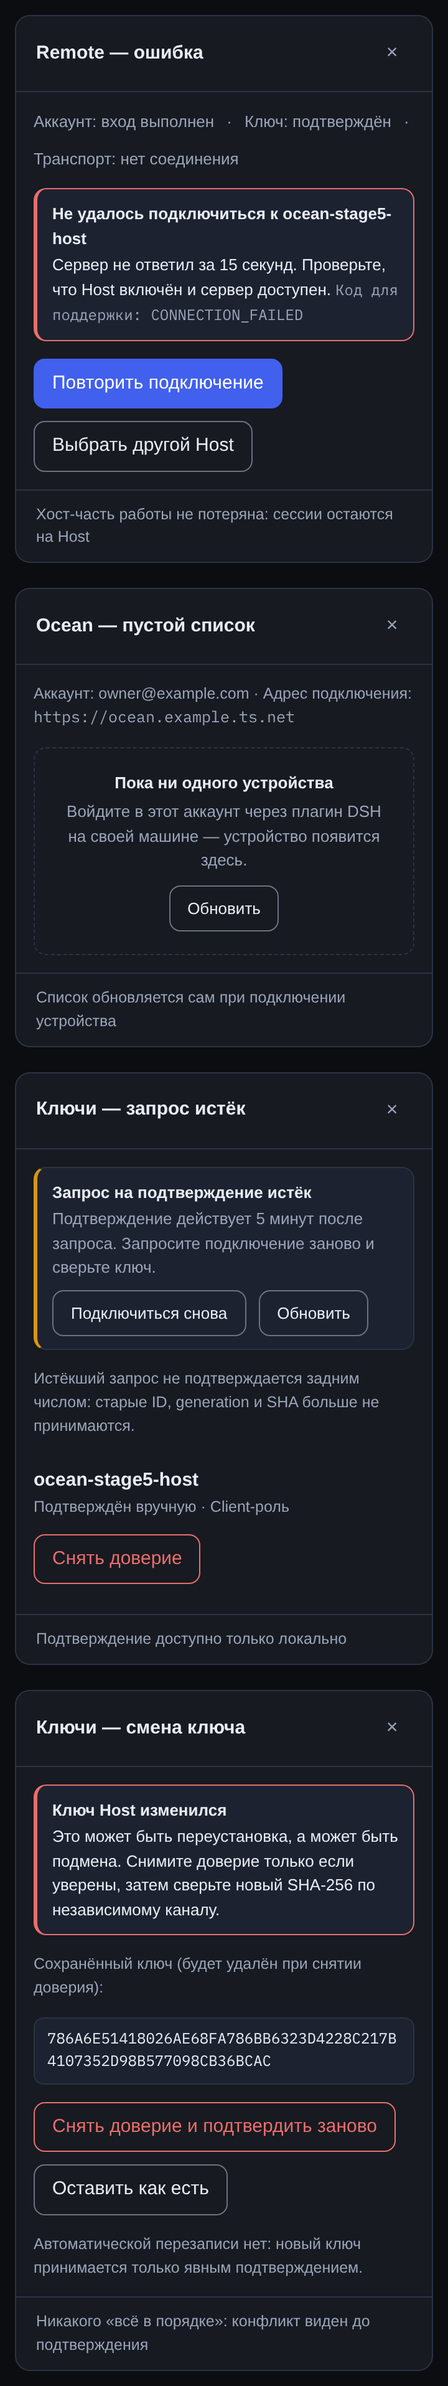
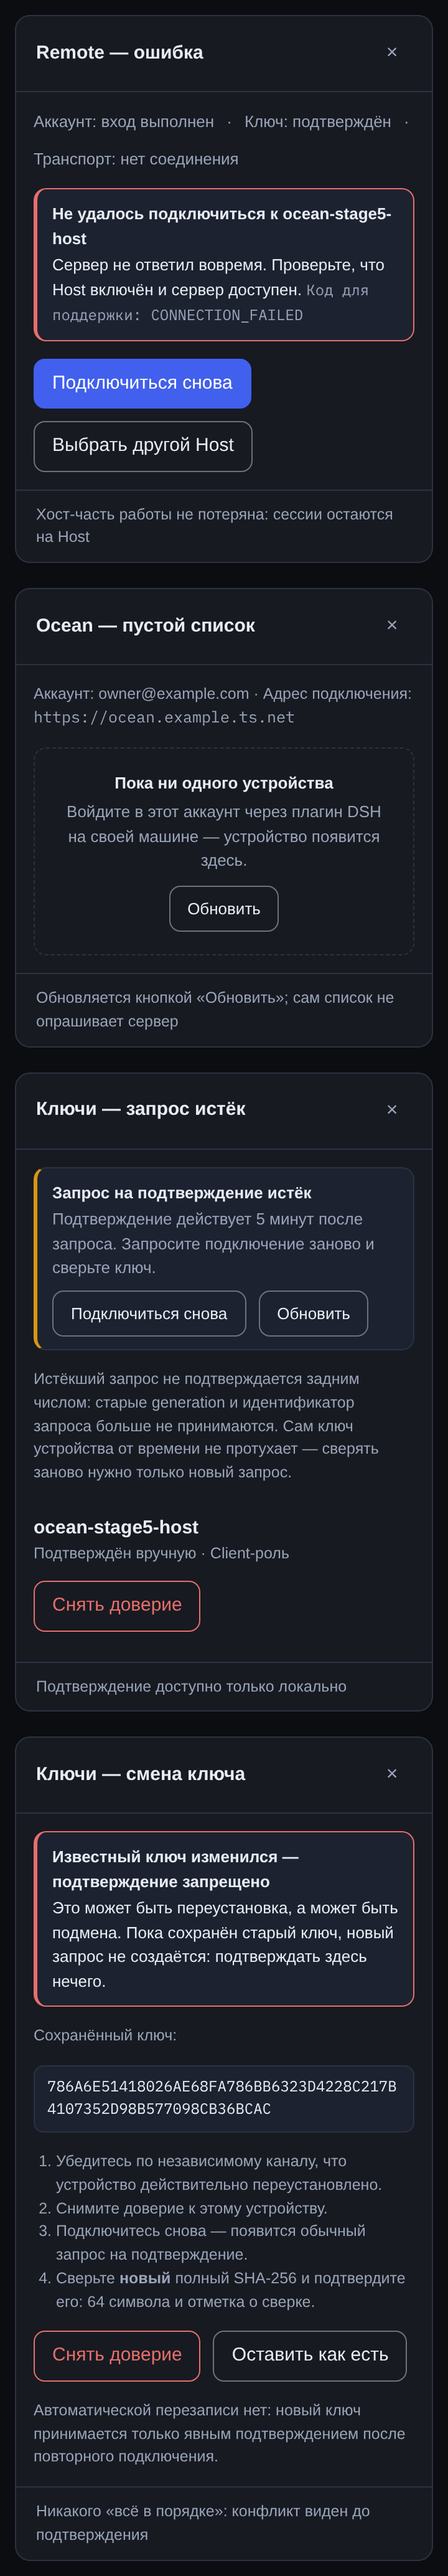
fix: make the state mockups match the product behaviour

diff --git a/docs/design/fork/mockups/states.html b/docs/design/fork/mockups/states.html
@@ -56,11 +56,11 @@
       </p>
       <div class="alert" role="alert">
         <strong>Не удалось подключиться к ocean-stage5-host</strong>
-        Сервер не ответил за 15 секунд. Проверьте, что Host включён и сервер доступен.
+        Сервер не ответил вовремя. Проверьте, что Host включён и сервер доступен.
         <span class="code">Код для поддержки: CONNECTION_FAILED</span>
       </div>
       <div class="row">
-        <button class="btn btn--primary">Повторить подключение</button>
+        <button class="btn btn--primary">Подключиться снова</button>
         <button class="btn">Выбрать другой Host</button>
       </div>
     </div>
@@ -80,7 +80,7 @@
         <span class="row" style="justify-content:center;margin-top:10px"><button class="btn">Обновить</button></span>
       </div>
     </div>
-    <footer class="footer">Список обновляется сам при подключении устройства</footer>
+    <footer class="footer">Обновляется кнопкой «Обновить»; сам список не опрашивает сервер</footer>
   </section>
 
   <section class="card" aria-labelledby="expired-title">
@@ -89,12 +89,12 @@
       <button class="card__close" aria-label="Закрыть панель доверия">×</button>
     </header>
     <div class="card__body">
-      <div class="notice">
+      <div class="notice" role="status">
         <strong>Запрос на подтверждение истёк</strong>
         Подтверждение действует 5 минут после запроса. Запросите подключение заново и сверьте ключ.
         <span class="row" style="margin-top:8px"><button class="btn">Подключиться снова</button><button class="btn">Обновить</button></span>
       </div>
-      <p class="hint">Истёкший запрос не подтверждается задним числом: старые ID, generation и SHA больше не принимаются.</p>
+      <p class="hint">Истёкший запрос не подтверждается задним числом: старые generation и идентификатор запроса больше не принимаются. Сам ключ устройства от времени не протухает — сверять заново нужно только новый запрос.</p>
       <div class="pin">
         <div>
           <div class="name">ocean-stage5-host</div>
@@ -113,17 +113,23 @@
     </header>
     <div class="card__body">
       <div class="alert" role="alert">
-        <strong>Ключ Host изменился</strong>
-        Это может быть переустановка, а может быть подмена. Снимите доверие только если уверены,
-        затем сверьте новый SHA-256 по независимому каналу.
+        <strong>Известный ключ изменился — подтверждение запрещено</strong>
+        Это может быть переустановка, а может быть подмена. Пока сохранён старый ключ, новый запрос
+        не создаётся: подтверждать здесь нечего.
       </div>
-      <p class="hint">Сохранённый ключ (будет удалён при снятии доверия):</p>
+      <p class="hint">Сохранённый ключ:</p>
       <p class="sha">786A6E51418026AE68FA786BB6323D4228C217B4107352D98B577098CB36BCAC</p>
+      <ol class="hint" style="margin:0;padding-left:18px">
+        <li>Убедитесь по независимому каналу, что устройство действительно переустановлено.</li>
+        <li>Снимите доверие к этому устройству.</li>
+        <li>Подключитесь снова — появится обычный запрос на подтверждение.</li>
+        <li>Сверьте <b>новый</b> полный SHA-256 и подтвердите его: 64 символа и отметка о сверке.</li>
+      </ol>
       <div class="row">
-        <button class="btn btn--danger">Снять доверие и подтвердить заново</button>
+        <button class="btn btn--danger">Снять доверие</button>
         <button class="btn">Оставить как есть</button>
       </div>
-      <p class="hint">Автоматической перезаписи нет: новый ключ принимается только явным подтверждением.</p>
+      <p class="hint">Автоматической перезаписи нет: новый ключ принимается только явным подтверждением после повторного подключения.</p>
     </div>
     <footer class="footer">Никакого «всё в порядке»: конфликт виден до подтверждения</footer>
   </section>

diff --git a/docs/design/fork/05-acceptance-checklist.ru.md b/docs/design/fork/05-acceptance-checklist.ru.md
@@ -5,7 +5,7 @@
 | Пункт | Что требуется | Как проверяется | Статус |
 | --- | --- | --- | --- |
 | UX-AC1 | Пользовательский путь 02–05 остаётся рабочим, security-тесты проходят на тех же контрактах | `pnpm -r test` из чистой копии репозитория ([проверка релиза](../../release-check.ru.md)): 834 теста, типы и контраст; чек-листы [установки](../../install-acceptance.ru.md) и [сессии](../../session-acceptance.ru.md) | Частично: полный набор зелёный в чистом клоне; живые двухмашинные прогоны ждут доступа к bigpc |
-| UX-AC2 | Все состояния отображены и проверены: неверный пароль, истечение запроса, смена ключа, частичный отзыв, потеря сети | [макеты состояний](mockups/README.ru.md) для ошибки, пустого списка, истёкшего запроса и смены ключа; матрица [01-screen-map](01-screen-map.ru.md); живые прогоны | Частично: четыре состояния нарисованы и проходят автоматическую проверку; неверный пароль — только в wireframes; частичный отзыв и истечение pending в реальном UI не прогонялись |
+| UX-AC2 | Все состояния отображены и проверены: неверный пароль, истечение запроса, смена ключа, частичный отзыв, потеря сети | [макеты состояний](mockups/README.ru.md) для ошибки, пустого списка, истёкшего запроса и смены ключа; матрица [01-screen-map](01-screen-map.ru.md); живые прогоны | Частично: четыре состояния нарисованы и проходят автоматическую проверку; смена ключа проверена только кодом и тестами, живьём не прогонялась; неверный пароль — только в wireframes; частичный отзыв не прогонялся, а отдельного UI «запрос истёк» в продукте нет — истечение видно как исчезнувший запрос |
 | UX-AC3 | Клавиатура и скринридер, нет фокуса за модалью и потери фокуса после закрытия | `pnpm check:mockups` (видимый фокус у всех контролов), ручной проход по диалогам | Частично: макеты проверены, живой интерфейс — нет |
 | UX-AC4 | Визуальная проверка на согласованных viewport/темах/zoom; нет обрезанного SHA и скрытых последствий | `pnpm check:mockups` (360/768/1440 и 720/705 ≈ 200% зума по ширине, SHA 64 символа), `pnpm check:contrast` | Частично: макеты проверены; светлая тема и живой интерфейс — нет |
 | UX-AC5 | Макеты и фактический UI показаны пользователю, ассеты/лицензии задокументированы | [макеты](mockups/README.ru.md), [UI kit](03-ui-kit.ru.md) | Ожидает показа: макеты готовы, визуальное направление не согласовано; лицензия base64-иконок вендоров остаётся открытым вопросом |

diff --git a/docs/design/fork/mockups/README.ru.md b/docs/design/fork/mockups/README.ru.md
@@ -16,7 +16,7 @@
 | Состояния, desktop 1440 | Ошибка подключения с кодом, пустой список устройств, истёкший запрос подтверждения, смена ключа | `states-desktop.png` |
 | Состояния, планшет/узкий | Те же четыре карточки столбцом | `states-tablet.png`, `states-narrow.png` |
 
-Исходники разметки: `remote-card.html` и `settings-and-ocean.html` — самодостаточные, без внешних ассетов, шрифтов и сетевых ссылок.
+Исходники разметки: `remote-card.html`, `settings-and-ocean.html` и [`states.html`](states.html) — самодостаточные, без внешних ассетов, шрифтов и сетевых ссылок.
 
 ## Осознанные отличия от текущего кода (целевое, не «как сейчас»)
 
@@ -24,6 +24,8 @@
 - Клиентский собственный SHA показан отдельной строкой; в текущей панели его подпись сливается с ожидающим запросом.
 - У кнопки «Подтвердить ключ» показано disabled-состояние, у уведомления об обрыве — номер попытки из бюджета 6.
 - Подтверждение снятия доверия нарисовано отдельной строкой; в продукте сейчас `window.confirm`.
+- Код поддержки в сообщении об ошибке (`CONNECTION_FAILED`) — целевое состояние из [§7 wireframes](../02-wireframes.ru.md): сейчас интерфейс показывает только локализованный текст.
+- Пустое состояние списка устройств в консоли не опрашивает сервер: обновление только по кнопке.
 
 ## Как проверяется
 
@@ -51,7 +53,7 @@
 
 - настройки: ошибка записи (текст `settingsOverridden` из локали, технические детали раскрываются отдельно), «загружаем», пустой профиль;
 - консоль Ocean: ошибка загрузки, частичный исход отзыва, состояние «обновление»;
-- ключи: успешное подтверждение, legacy-метка, отказ подтверждения.
+- ключи: успешное подтверждение, отказ подтверждения, «запросов нет» (пустая панель доверия).
 
 Пустой список Ocean, ошибка подключения, истёкший запрос и смена ключа — нарисованы в `states.html`.
 
